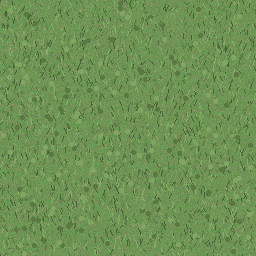
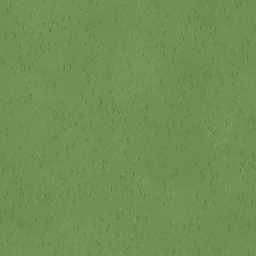
feat: enhance minimap functionality with labels and adjustable height

diff --git a/lib/screens/game_screen.dart b/lib/screens/game_screen.dart
@@ -1,12 +1,14 @@
 import 'dart:async';
 
 import 'package:flame/game.dart';
+import 'package:flutter/foundation.dart';
 import 'package:flutter/material.dart';
 import 'package:flutter/services.dart';
 import 'package:flutter_riverpod/flutter_riverpod.dart';
 import '../game/life_game.dart';
 import '../game/state/game_state.dart';
 import '../game/world/interactable.dart';
+import '../game/world/mini_map_scene.dart';
 import '../services/game_data_service.dart';
 import '../services/save_service.dart';
 import '../services/audio_service.dart';
@@ -683,11 +685,16 @@ class _GameScreenState extends ConsumerState<GameScreen> {
   }
 
   void _openPhone() {
+    final game = _game;
+    if (game == null) return;
     showModalBottomSheet(
       context: context,
       isScrollControlled: true,
       backgroundColor: Colors.transparent,
-      builder: (_) => const _PhoneSheet(),
+      builder: (_) => _PhoneSheet(
+        position: game.playerMapPosition,
+        scene: game.miniMapScene,
+      ),
     );
   }
 
@@ -1488,7 +1495,10 @@ class _LocationPanel extends ConsumerWidget {
 }
 
 class _PhoneSheet extends ConsumerWidget {
-  const _PhoneSheet();
+  final ValueListenable<Vector2> position;
+  final ValueListenable<MiniMapScene> scene;
+
+  const _PhoneSheet({required this.position, required this.scene});
 
   @override
   Widget build(BuildContext context, WidgetRef ref) {
@@ -1600,11 +1610,7 @@ class _PhoneSheet extends ConsumerWidget {
                               Icons.map_rounded,
                               'Map',
                               const Color(0xFF6AA84F),
-                              () => _phoneInfo(
-                                context,
-                                'Map',
-                                'School - Plaza - Home - Cafe',
-                              ),
+                              () => _phoneFullMap(context),
                             ),
                           ],
                         ),
@@ -1746,6 +1752,57 @@ class _PhoneSheet extends ConsumerWidget {
             child: const Text('Close'),
           ),
         ],
+      ),
+    );
+  }
+
+  void _phoneFullMap(BuildContext context) {
+    final screenW = MediaQuery.of(context).size.width;
+    showDialog(
+      context: context,
+      builder: (ctx) => Dialog.fullscreen(
+        backgroundColor: const Color(0xFF111417),
+        child: SafeArea(
+          child: Padding(
+            padding: const EdgeInsets.all(16),
+            child: Column(
+              children: [
+                Row(
+                  children: [
+                    const Expanded(
+                      child: Text(
+                        'Town Map',
+                        textAlign: TextAlign.center,
+                        style: TextStyle(
+                          color: Colors.white,
+                          fontWeight: FontWeight.bold,
+                          fontSize: 18,
+                        ),
+                      ),
+                    ),
+                    IconButton(
+                      onPressed: () => Navigator.of(ctx).pop(),
+                      icon: const Icon(Icons.close, color: Colors.white),
+                    ),
+                  ],
+                ),
+                const SizedBox(height: 8),
+                Expanded(
+                  child: Center(
+                    child: SingleChildScrollView(
+                      child: MiniMap(
+                        position: position,
+                        scene: scene,
+                        width: (screenW - 64).clamp(280.0, 560.0),
+                        mapHeightMax: 2000,
+                      ),
+                    ),
+                  ),
+                ),
+              ],
+            ),
+          ),
+        ),
       ),
     );
   }

diff --git a/lib/widgets/mini_map.dart b/lib/widgets/mini_map.dart
@@ -15,11 +15,15 @@ class MiniMap extends StatelessWidget {
   final ValueListenable<MiniMapScene> scene;
   final double width;
 
+  /// Cap for the painted map height (HUD default 104; fullscreen more).
+  final double mapHeightMax;
+
   const MiniMap({
     super.key,
     required this.position,
     required this.scene,
     this.width = 168,
+    this.mapHeightMax = 104,
   });
 
   @override
@@ -29,7 +33,7 @@ class MiniMap extends StatelessWidget {
       builder: (context, sceneValue, _) {
         final mapHeight = (width * sceneValue.height / sceneValue.width).clamp(
           64.0,
-          104.0,
+          mapHeightMax,
         );
         return ValueListenableBuilder<Vector2>(
           valueListenable: position,
@@ -127,6 +131,29 @@ class MiniMapPainter extends CustomPainter {
       );
     }
 
+    // Small building labels, each shrunk to fit inside its own
+    // building rect (never spilling onto neighbours). Layouts cached:
+    // the painter reruns on every player step.
+    for (final block in scene.blocks) {
+      final label = block.label;
+      if (label == null || label.isEmpty) continue;
+      final cap = 8.5 / scale;
+      final probe = _labelPainter(label, cap);
+      final fit = [
+        1.0,
+        (block.rect.width * 0.92) / probe.width,
+        (block.rect.height * 0.9) / probe.height,
+      ].reduce((a, b) => a < b ? a : b);
+      final painter = fit < 1.0 ? _labelPainter(label, cap * fit) : probe;
+      painter.paint(
+        canvas,
+        Offset(
+          block.rect.center.dx - painter.width / 2,
+          block.rect.center.dy - painter.height / 2,
+        ),
+      );
+    }
+
     // The player: a ring plus a dot, drawn at a constant on-screen size.
     // Kept small so it doesn't cover nearby buildings/doors.
     canvas.drawCircle(
@@ -154,4 +181,27 @@ class MiniMapPainter extends CustomPainter {
   @override
   bool shouldRepaint(MiniMapPainter oldDelegate) =>
       oldDelegate.position != position || oldDelegate.scene != scene;
+}
+
+/// Cached label painters (see interior drawCenteredLabel rationale).
+final Map<String, TextPainter> _miniLabelCache = {};
+
+TextPainter _labelPainter(String text, double fontSize) {
+  final key = '$text|$fontSize';
+  return _miniLabelCache.putIfAbsent(key, () {
+    return TextPainter(
+          text: TextSpan(
+            text: text,
+            style: TextStyle(
+              color: Colors.white,
+              fontSize: fontSize,
+              fontWeight: FontWeight.bold,
+              shadows: const [Shadow(color: Colors.black87, blurRadius: 3)],
+            ),
+          ),
+          textDirection: TextDirection.ltr,
+          textAlign: TextAlign.center,
+        )
+        ..layout();
+  });
 }

diff --git a/lib/game/world/mini_map_scene.dart b/lib/game/world/mini_map_scene.dart
@@ -4,13 +4,15 @@ import '../../models/location_dialogue.dart';
 import 'interior_data.dart';
 import 'map_data.dart';
 
-/// One rectangle of a minimap.
+/// One rectangle of a minimap, optionally carrying a small label
+/// (town buildings show their names).
 class MiniMapBlock {
   final Rect rect;
   final Color color;
   final bool isMarker;
+  final String? label;
 
-  const MiniMapBlock(this.rect, this.color, {this.isMarker = false});
+  const MiniMapBlock(this.rect, this.color, {this.isMarker = false, this.label});
 
   factory MiniMapBlock.at(double x, double y, double size, Color color) =>
       MiniMapBlock(
@@ -55,7 +57,11 @@ class MiniMapScene {
             const Color(0xFF3F7D3A),
           ),
       for (final LocationModel l in buildTownLocations())
-        MiniMapBlock(Rect.fromLTWH(l.x, l.y, l.w, l.h), Color(l.color)),
+        MiniMapBlock(
+          Rect.fromLTWH(l.x, l.y, l.w, l.h),
+          Color(l.color),
+          label: _shortLabel(l.name),
+        ),
       for (final LocationModel l in buildTownLocations())
         MiniMapBlock.at(
           l.x + l.w / 2,
@@ -138,6 +144,14 @@ class MiniMapScene {
 /// Doorway metrics shared with the interior scene.
 class InteriorWorldMetrics {
   static const double doorHeight = 68;
+}
+
+/// Long multi-word names don't fit small map blocks: use initials
+/// ("Police Station" -> "PS"). Single words stay whole.
+String _shortLabel(String name) {
+  final words = name.split(' ').where((w) => w.isNotEmpty).toList();
+  if (words.length < 2) return name;
+  return words.map((w) => w[0]).join().toUpperCase();
 }
 
 /// The minimap scene for [locationId], or the town when it is null.

diff --git a/lib/game/world/town_world.dart b/lib/game/world/town_world.dart
@@ -436,10 +436,11 @@ class TownBackdrop extends PositionComponent {
   ];
 
   /// Soft large-scale tonal variation to break up tile repetition.
-  /// Deterministic so it looks identical every run.
+  /// Deterministic so it looks identical every run. Kept small (24)
+  /// to limit full-screen overdraw on phones.
   static final List<_GrassPatch> _patches = (() {
     final r = Random(11);
-    return List.generate(46, (_) {
+    return List.generate(24, (_) {
       return _GrassPatch(
         x: r.nextDouble() * kWorldWidth,
         y: r.nextDouble() * kWorldHeight,
@@ -477,6 +478,9 @@ class TownBackdrop extends PositionComponent {
         Paint()..color = const Color(0xFF6F9155),
       );
       final shaderPaint = Paint()
+        // Bilinear filtering: kills minification shimmer (pixel crawl)
+        // when the camera moves while zoomed out.
+        ..filterQuality = FilterQuality.medium
         ..shader = ui.ImageShader(
           tile,
           ui.TileMode.repeated,
